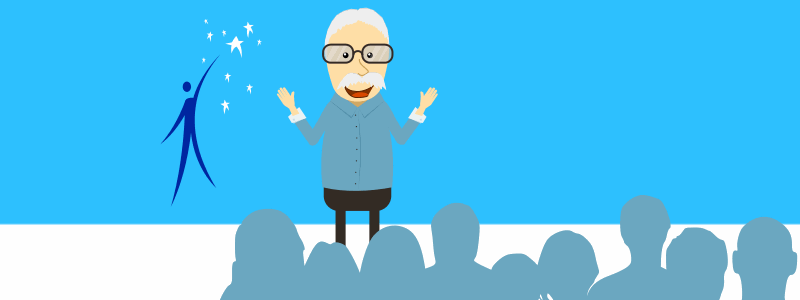
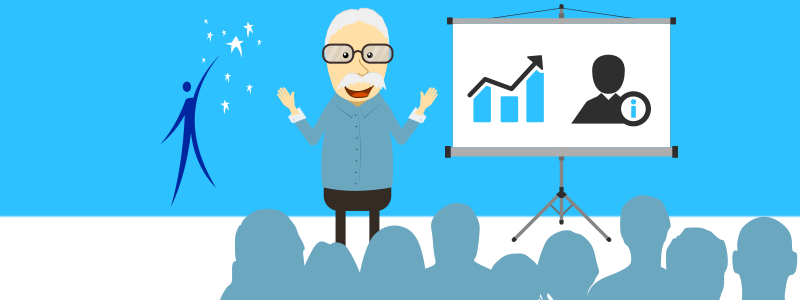
Nova imagem de capa com a tela de projetor

diff --git a/_sass/_layout.scss b/_sass/_layout.scss
@@ -15,7 +15,12 @@
 .top-banner {
     position: relative;
     display: block;
-    margin: -20% auto 0;
+    margin: -25% auto 0;
+
+    @include media-query($on-palm) {
+        margin-top: -35%;
+    }
+
 }
 
 .site-nav {
